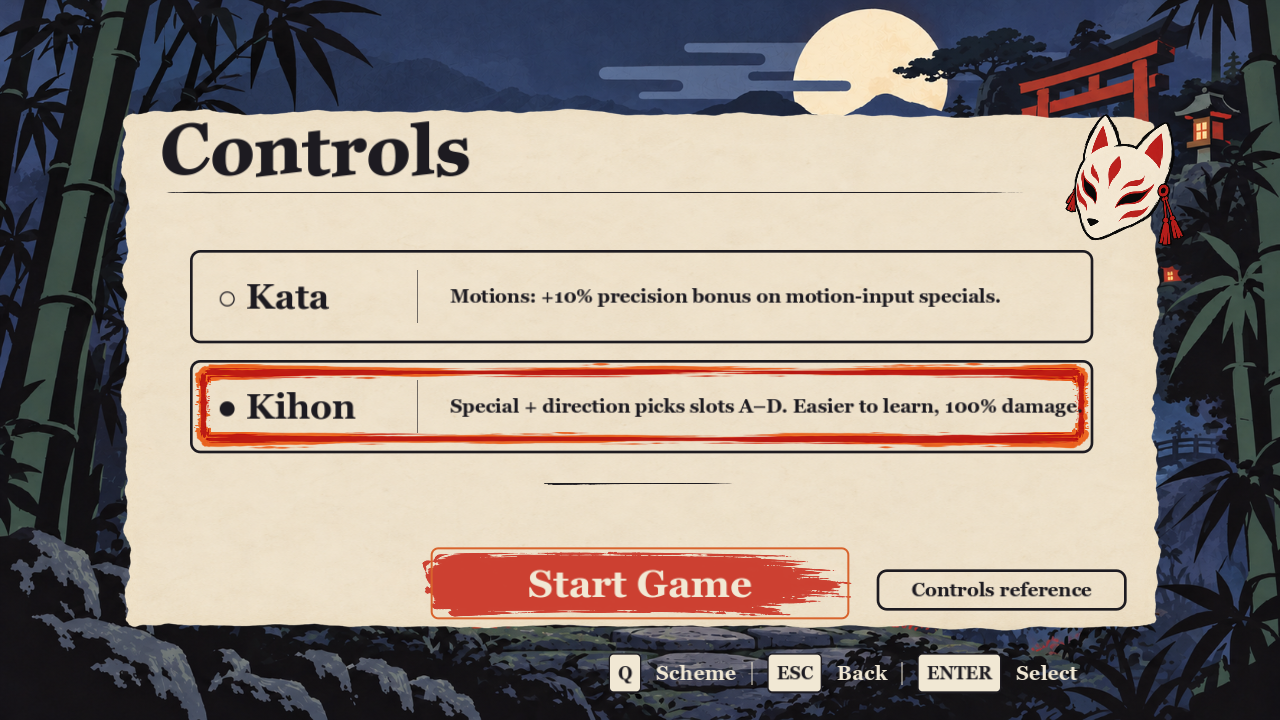
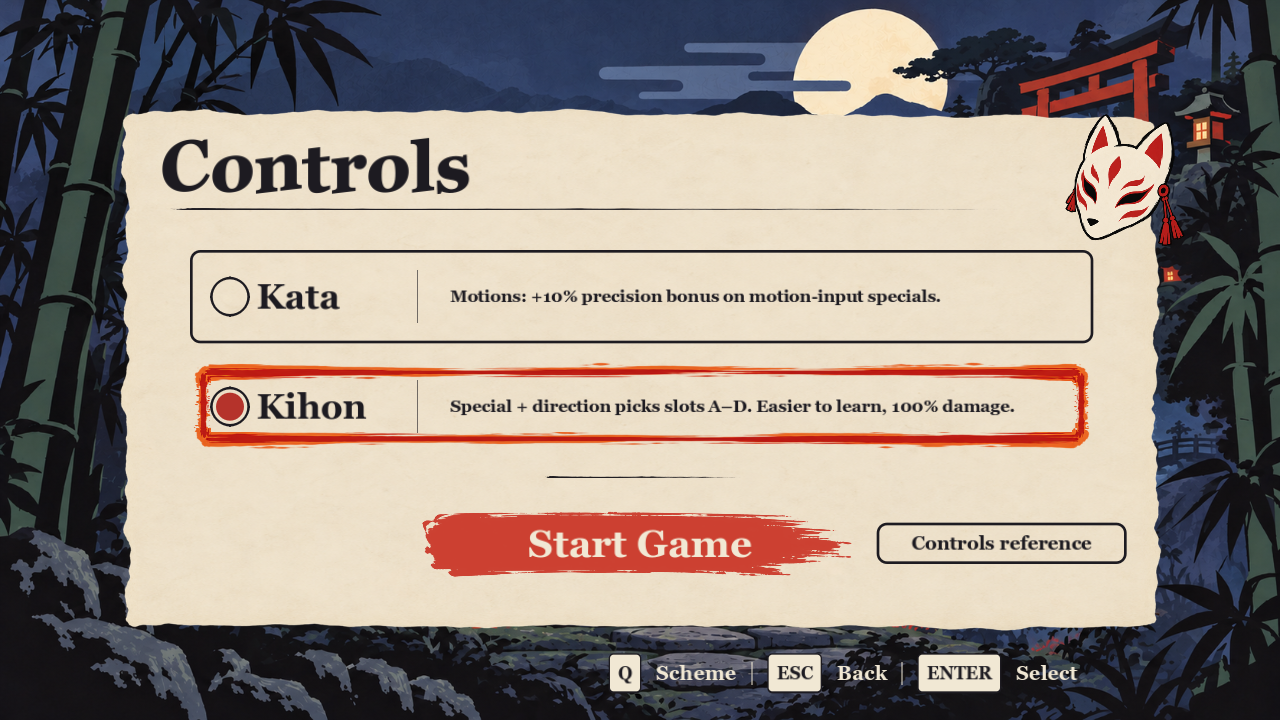
YOK-ui-review: refine control select layout and focus styling

diff --git a/game/tests/probes/ControlSelectReviewProbes.cs b/game/tests/probes/ControlSelectReviewProbes.cs
@@ -1,0 +1,76 @@
+using Godot;
+using YokaiFighters.Fight;
+using YokaiFighters.Sim;
+using YokaiFighters.Ui;
+using YokaiFighters.Ui.Kit;
+
+namespace YokaiFighters.Tests;
+
+public static class ControlSelectReviewProbes
+{
+    [Test]
+    public static void SelectionBrushAndRadioSurviveFocusAndRepeatedSchemeChanges(Node runner)
+    {
+        // V1: the selected scheme uses its paper/brush presentation; K1/K2: the choice identifies the active scheme.
+        MenuSettings.Reset();
+        var screen = GD.Load<PackedScene>("res://scenes/ui/start_screen.tscn").Instantiate<StartScreen>();
+        runner.AddChild(screen);
+        try
+        {
+            foreach (var scheme in new[] { ControlScheme.Kata, ControlScheme.Kihon, ControlScheme.Kata, ControlScheme.Kihon })
+            {
+                MenuSettings.SetScheme(scheme);
+                var selected = scheme == ControlScheme.Kata ? screen.KataButton : screen.KihonButton;
+                var other = scheme == ControlScheme.Kata ? screen.KihonButton : screen.KataButton;
+                var selectedStyle = selected.GetThemeStylebox("normal");
+                foreach (var focus in new[] { selected, other, screen.Start, selected })
+                {
+                    focus.GrabFocus();
+                    ((KitBrushButton)selected).Refresh();
+                    ((KitBrushButton)other).Refresh();
+                    Assert.True(selected.GetNode<Control>("Selected").Visible, "brush remains on selected scheme");
+                    Assert.True(!other.GetNode<Control>("Selected").Visible, "focus does not mark the other scheme selected");
+                    Assert.True(selected.GetNode<Control>("Radio/Dot").Visible && !other.GetNode<Control>("Radio/Dot").Visible, "radio follows scheme, not focus");
+                    Assert.True(selected.GetThemeStylebox("normal") == selectedStyle, "focus refresh retains screen-owned selected style");
+                    Assert.Equal(100f, selected.GetThemeStylebox("normal").ContentMarginLeft, "selected text inset survives focus");
+                }
+            }
+        }
+        finally { screen.Free(); MenuSettings.Reset(); }
+    }
+
+    [Test]
+    public static void ReferenceRepeatedOpenCloseRestoresActionsAndPreservesHiddenSchemeChoice(Node runner)
+    {
+        // V1: paper controls remain usable around the reference sheet; K1/K2: reference reflects the chosen scheme.
+        MenuSettings.Reset();
+        var screen = GD.Load<PackedScene>("res://scenes/ui/start_screen.tscn").Instantiate<StartScreen>();
+        runner.AddChild(screen);
+        try
+        {
+            var reference = UiFind.Get<Control>(screen, "Reference");
+            var toggle = UiFind.Get<Button>(screen, "ReferenceToggle");
+            var startPosition = screen.Start.Position;
+            var togglePosition = toggle.Position;
+            for (int i = 0; i < 3; i++)
+            {
+                screen.SetReferenceVisible(true);
+                screen.SetReferenceVisible(true);
+                Assert.True(screen.ReferenceVisible, "reference opens idempotently");
+                Assert.True(screen.Start.Position.Y >= reference.Position.Y + reference.Size.Y, "Start stays below reference sheet");
+                Assert.True(toggle.Position.Y >= reference.Position.Y + reference.Size.Y, "reference toggle stays below sheet");
+                Assert.True(!screen.KataButton.Visible && !screen.KihonButton.Visible, "sheet hides scheme cards");
+                MenuSettings.SetScheme(ControlScheme.Kata);
+                Assert.Equal(StartScreen.KataDescription, UiFind.Get<Label>(screen, "SpecialsLine").Text, "hidden-card choice redraws Kata reference");
+                screen.SetReferenceVisible(false);
+                screen.SetReferenceVisible(false);
+                Assert.Equal(startPosition, screen.Start.Position, "Start restores original position without drift");
+                Assert.Equal(togglePosition, toggle.Position, "toggle restores original position without drift");
+                Assert.True(screen.KataButton.Visible && screen.KihonButton.Visible, "both cards restored");
+                Assert.True(screen.KataButton.GetNode<Control>("Radio/Dot").Visible, "scheme choice persists across reference close");
+                MenuSettings.SetScheme(ControlScheme.Kihon);
+            }
+        }
+        finally { screen.Free(); MenuSettings.Reset(); }
+    }
+}

diff --git a/game/scripts/Fight/StartScreen.cs b/game/scripts/Fight/StartScreen.cs
@@ -33,6 +33,7 @@ public partial class StartScreen : Control
 	private string _kihonSpecials = "";
 	private Control _reference = null!;
 	private Button _referenceToggle = null!;
+	private readonly Dictionary<string, StyleBox> _schemeStyles = new();
 	public bool ReferenceVisible => _reference.Visible;
 	public const string KataDescription = "Motions: +10% precision bonus on motion-input specials.";
 
@@ -106,6 +107,8 @@ public partial class StartScreen : Control
 		_kihonSpecials = _specialsLine.Text; // the scene's copy is the Kihon line
 		KataButton = UiFind.Get<Button>(this, "Kata");
 		KihonButton = UiFind.Get<Button>(this, "Kihon");
+		foreach (string state in new[] { "normal", "hover", "pressed", "focus" })
+			_schemeStyles[state] = KataButton.GetThemeStylebox(state);
 		KataButton.Pressed += () => MenuSettings.SetScheme(ControlScheme.Kata);
 		KihonButton.Pressed += () => MenuSettings.SetScheme(ControlScheme.Kihon);
 		Start = UiFind.Get<Button>(this, "Start");
@@ -133,8 +136,21 @@ public partial class StartScreen : Control
 	private void ShowScheme()
 	{
 		bool kata = Scheme == ControlScheme.Kata;
-		KataButton.Text = (kata ? "● " : "○ ") + "Kata";
-		KihonButton.Text = (kata ? "○ " : "● ") + "Kihon";
+		KataButton.Text = "Kata";
+		KihonButton.Text = "Kihon";
+		foreach (var button in new[] { KataButton, KihonButton })
+		{
+			bool selected = button == KataButton ? kata : !kata;
+			button.GetNode<Control>("Radio/Dot").Visible = selected;
+			foreach (string state in new[] { "normal", "hover", "pressed", "focus" })
+			{
+				// Preserve the same text inset when the brush replaces the selected row's box.
+				StyleBox style = selected || state == "focus" ? new StyleBoxEmpty() : (StyleBox)_schemeStyles[state].Duplicate();
+				style.ContentMarginLeft = 100;
+				style.ContentMarginRight = 40;
+				button.AddThemeStyleboxOverride(state, style);
+			}
+		}
 		KataButton.GetNode<Control>("Selected").Visible = kata;
 		KihonButton.GetNode<Control>("Selected").Visible = !kata;
 		var rows = Rows(Scheme);
@@ -180,6 +196,8 @@ public partial class StartScreen : Control
 	public void SetReferenceVisible(bool visible)
 	{
 		_reference.Visible = visible;
+		Start.Position = new Vector2(Start.Position.X, visible ? 825 : 765);
+		_referenceToggle.Position = new Vector2(_referenceToggle.Position.X, visible ? 854 : 784);
 		KataButton.Visible = KihonButton.Visible = !visible;
 		_referenceToggle.Text = visible ? "Hide controls" : "Controls reference";
 		_referenceToggle.GrabFocus();

diff --git a/game/tests/StartScreenTests.cs b/game/tests/StartScreenTests.cs
@@ -66,11 +66,11 @@ public static class StartScreenTests
 			var grid = YokaiFighters.Ui.UiFind.Get<GridContainer>(screen, "KeyboardGrid");
 			string Table() => string.Join("|", grid.GetChildren().OfType<Label>().Where(l => l.Visible).Select(l => l.Text));
 			Assert.Equal(ControlScheme.Kihon, StartScreen.Scheme, "Kihon by default (E18)");
-			Assert.True(screen.KihonButton.Text.StartsWith("●") && screen.KataButton.Text.StartsWith("○"), "Kihon marked");
+			Assert.True(screen.KihonButton.GetNode<Control>("Radio/Dot").Visible && !screen.KataButton.GetNode<Control>("Radio/Dot").Visible, "Kihon marked");
 			Assert.True(Table().Contains("Space + direction"), "Kihon table: Special + direction (K2)");
 			screen.KataButton.EmitSignal(BaseButton.SignalName.Pressed);
 			Assert.Equal(ControlScheme.Kata, StartScreen.Scheme, "Kata chosen");
-			Assert.True(screen.KataButton.Text.StartsWith("●") && screen.KihonButton.Text.StartsWith("○"), "Kata marked");
+			Assert.True(screen.KataButton.GetNode<Control>("Radio/Dot").Visible && !screen.KihonButton.GetNode<Control>("Radio/Dot").Visible, "Kata marked");
 			Assert.True(Table().Contains("draw the motion") && !Table().Contains("Space + direction"), "Kata table: motions (K1)");
 			screen.KihonButton.EmitSignal(BaseButton.SignalName.Pressed);
 			Assert.Equal(ControlScheme.Kihon, StartScreen.Scheme, "back to Kihon");

diff --git a/game/tests/SettingsTests.cs b/game/tests/SettingsTests.cs
@@ -336,7 +336,7 @@ public static class SettingsTests
 			flow.Router.Back();
 
 			Press(flow.Title.StartButton);
-			Assert.True(flow.ControlSelect.KataButton.Text.StartsWith("●") && !flow.ControlSelect.KihonButton.Text.StartsWith("●"), "control select opens on the saved scheme");
+			Assert.True(flow.ControlSelect.KataButton.GetNode<Control>("Radio/Dot").Visible && !flow.ControlSelect.KihonButton.GetNode<Control>("Radio/Dot").Visible, "control select opens on the saved scheme");
 			Press(flow.ControlSelect.Start);
 			flow.ChooseNode(flow.Session!.Reachable()[0]); // YOK-77: the map comes first
 			Assert.Equal(ControlScheme.Kata, flow.Fight!.SchemeOf(0), "and the fight uses it");
@@ -368,7 +368,7 @@ public static class SettingsTests
 			flow.Router.Back();
 			Assert.True(new SettingsStore(path).Load().Data is { Scheme: ControlScheme.Kihon, Music: 20 }, "settings-sheet changes are saved to the same file");
 			Press(flow.Title.StartButton);
-			Assert.True(flow.ControlSelect.KihonButton.Text.StartsWith("●"), "one value: control select follows the sheet");
+			Assert.True(flow.ControlSelect.KihonButton.GetNode<Control>("Radio/Dot").Visible, "one value: control select follows the sheet");
 		});
 		WithBoot(runner, path, flow =>
 		{

diff --git a/game/scripts/Ui/Kit/KitBrushButton.cs b/game/scripts/Ui/Kit/KitBrushButton.cs
@@ -66,7 +66,10 @@ public partial class KitBrushButton : Button
 	private void ApplyPinned(KitState s)
 	{
 		if (!IsInsideTree() || _applied == (_preview, s)) return; // the theme variation is not resolved before the node is in the tree; overrides re-notify, so only act on a change
+		bool wasPinned = _applied.Item1 != KitState.Auto;
 		_applied = (_preview, s);
+		// Live screens may own normal-style overrides; only clear styles installed by a pinned preview.
+		if (_preview == KitState.Auto && !wasPinned) return;
 		RemoveThemeStyleboxOverride("normal"); RemoveThemeColorOverride("font_color"); // read the theme's own values, not our last override
 		if (_preview == KitState.Auto) return;
 		string style = s switch { KitState.Focused => "focus", KitState.Disabled => "disabled", KitState.Pressed => "pressed", _ => "normal" };

diff --git a/game/tests/BootFlowTests.cs b/game/tests/BootFlowTests.cs
@@ -262,7 +262,7 @@ public static class BootFlowTests
 		flow.Router.Back();
 		Assert.Equal(ControlScheme.Kata, flow.Router.Scheme, "the settings choice reaches the router");
 		Press(flow.Title.StartButton);
-		Assert.True(flow.ControlSelect.KataButton.Text.StartsWith("●"), "control select opens on it");
+		Assert.True(flow.ControlSelect.KataButton.GetNode<Control>("Radio/Dot").Visible, "control select opens on it");
 		StartGame(flow);
 		Assert.Equal(ControlScheme.Kata, flow.Fight!.SchemeOf(0), "and the fight uses it");
 		MenuSettings.SetScheme(ControlScheme.Kihon); // a menu value changing during the fight
